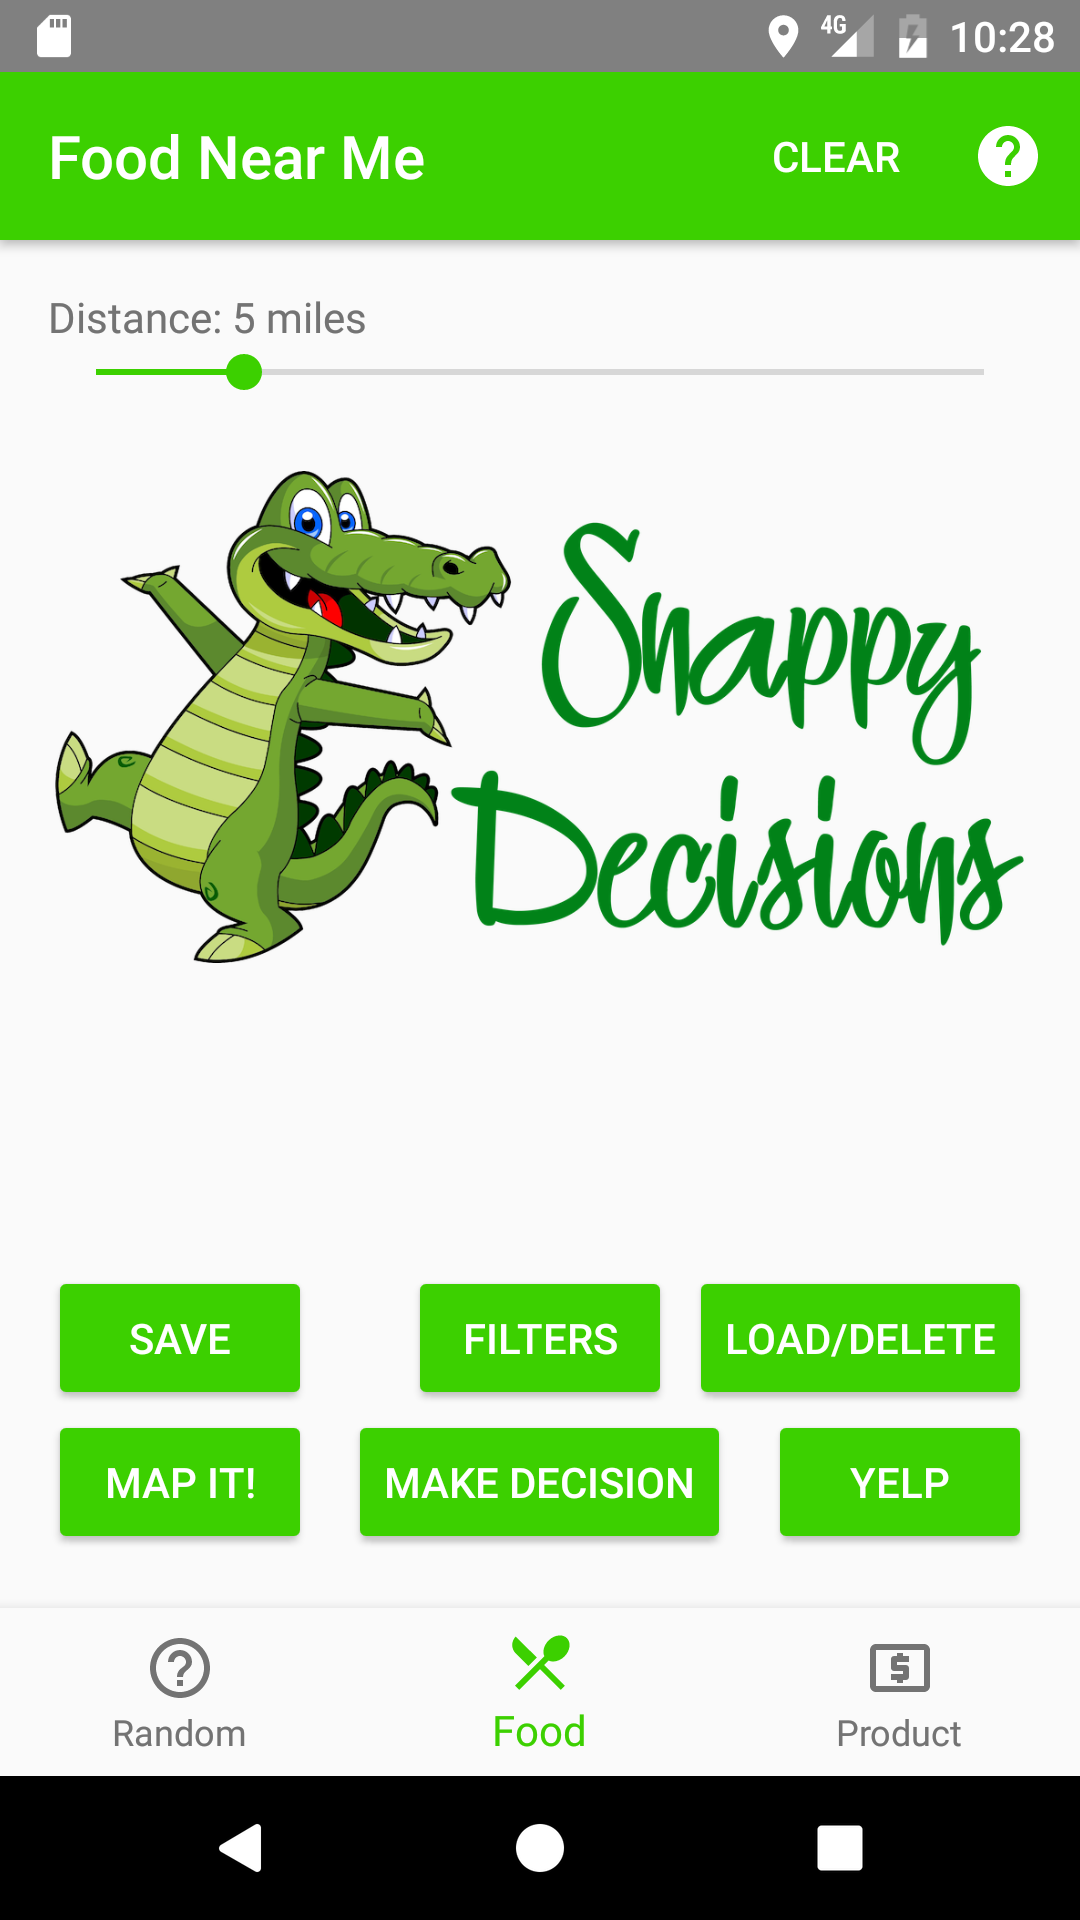
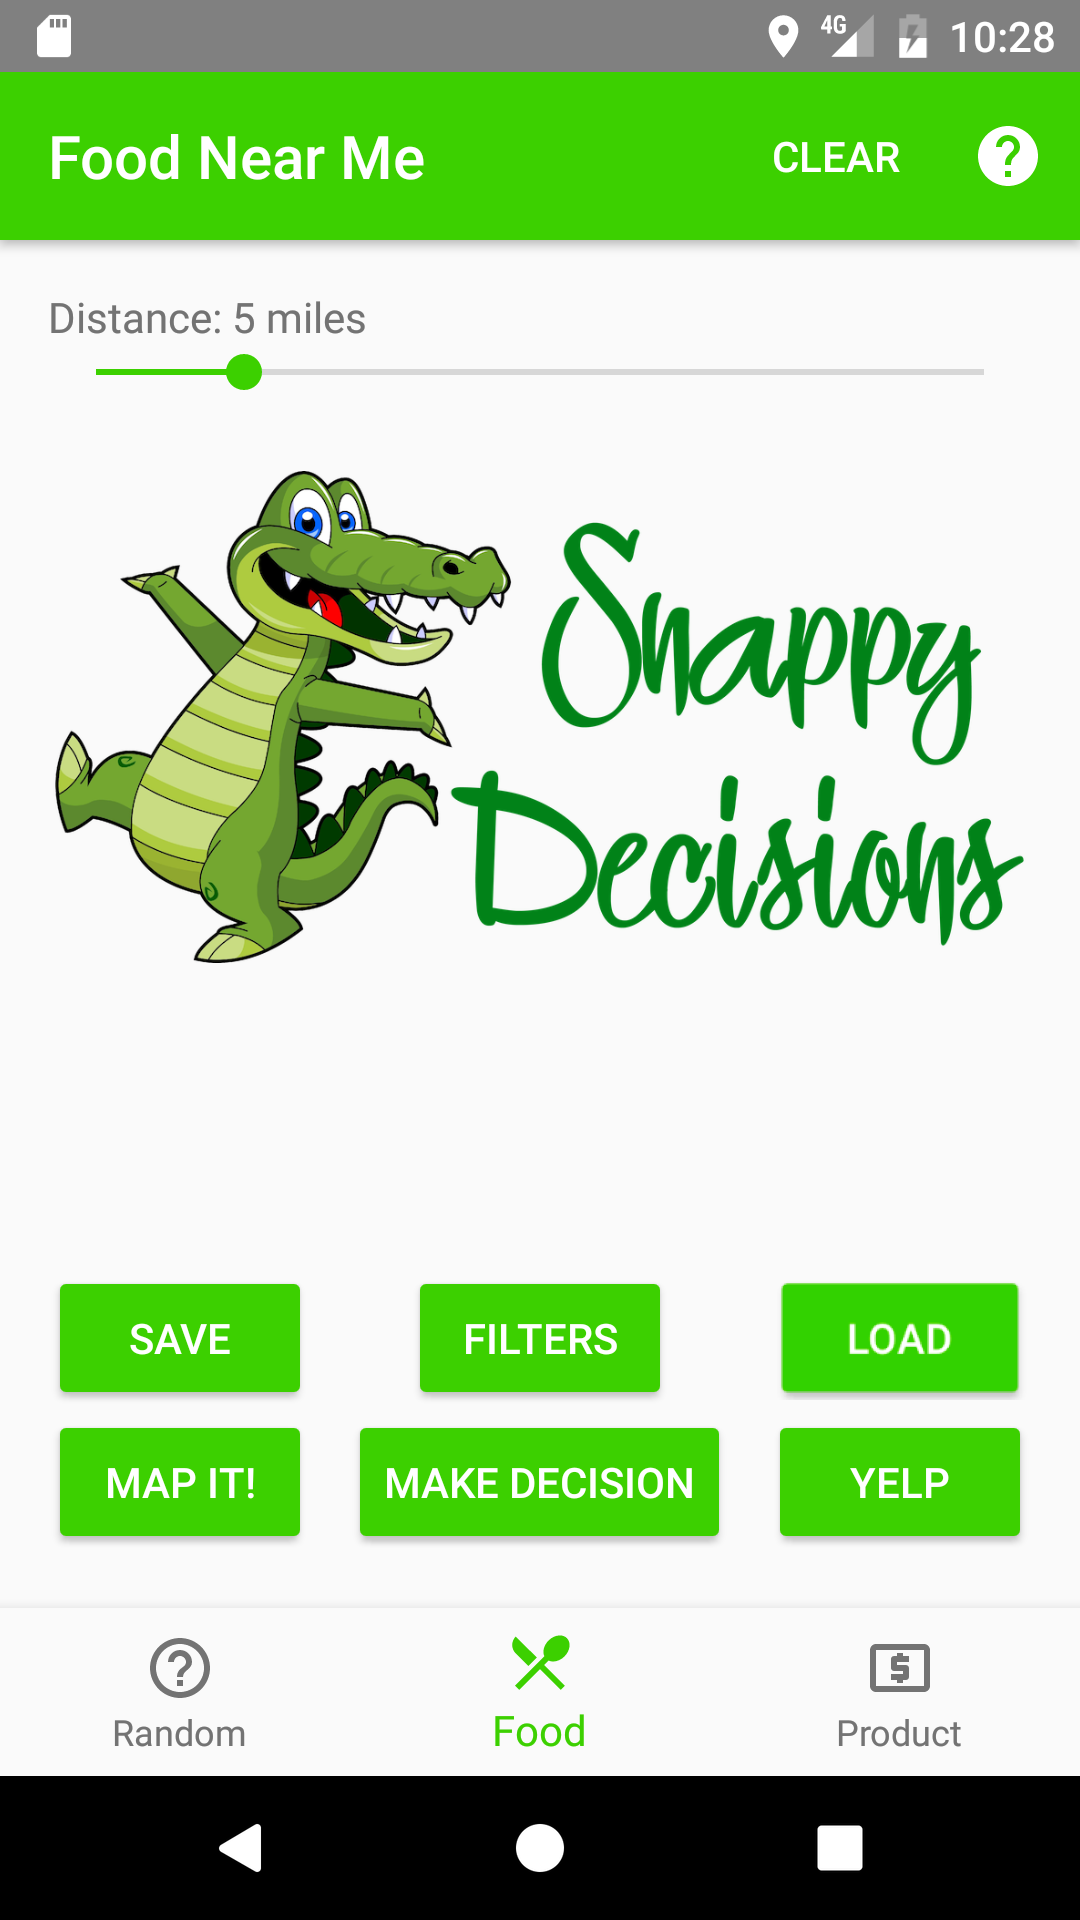
Fixed some text on website and screenshots for food decision

Changed region(s): [[0.6417, 0.6562, 0.9472, 0.75]]

diff --git a/website/index.html b/website/index.html
@@ -93,10 +93,10 @@
             </div>
             <div class="row">
                 <div class="col-lg-4 col-lg-offset-2">
-                    <p>What should I have for dinner? Should I go out tonight? Should I get married? Life is filled with difficult decisions that only cause stress and worry. With Snappy Decisions you can avoid taking any personal repsonsibilty and let your phone choose for you.</p>
+                    <p>What should I have for dinner? Should I go out tonight? Should I get married? Life is filled with difficult decisions that only cause stress and worry. With Snappy Decisions you can avoid taking any personal responsibility and let your phone choose for you.</p>
                 </div>
                 <div class="col-lg-4 col-lg-offset-0">
-                    <p>Snappy Decision can help with any type of decision. Use the random decider to pick from a set of options. Use the food decider to pick which restaraunt to go to. The product decider will help you make an informed decision by looking up relevant product info.</p>
+                    <p>Snappy Decisions can help with any type of decision. Use the random decider to pick from a set of user defined options. Use the food decider to pick which restaraunt to go to. The product decider will help you make an informed decision by looking up relevant product info.</p>
                 </div>
                 <div class="col-lg-8 col-lg-offset-2 text-center">
                     <a href="#" class="btn btn-lg btn-outline">
@@ -238,7 +238,7 @@
                                 </div>
                             </div>
                             
-                            <p>The end-all decision maker. Add your current options and we'll randomly pick one for you. Need more control? Add weighting to favor one option more than the others. Is there a decision you make frequently? Save it now and easily reload it again later.</p>
+                            <p>The end-all decision maker. Add potential choices and we'll randomly pick one for you. Need more control? Add weighting to favor one choice more than the others. Is there a set of choices you want to decide from frequently? Save it now and easily reload it again later.</p>
                             <button type="button" class="btn btn-default" data-dismiss="modal"><i class="fa fa-times"></i> Close</button>
                         </div>
                     </div>
@@ -273,7 +273,7 @@
                                 </div>
                             </div>
 
-                            <p>Can't decide where to eat? Our automatic search will find all nearby restaraunts and randomly pick one for your. Don't like our pick? Adjust the search radius for closer restaraunts or add filters to restrict food type. Want to go there? Easily open directions in maps or read reviews on Yelp. </p>
+                            <p>Can't decide where to eat? Our automatic search will find nearby restaraunts and randomly pick one for you. Don't like our pick? Adjust the search radius or add filters to restrict food type and pricing. Unsure about the restaurant? Open up the Yelp page to get more information. Want to go there? Easily open directions in maps and be on your way! </p>
                             <button type="button" class="btn btn-default" data-dismiss="modal"><i class="fa fa-times"></i> Close</button>
                         </div>
                     </div>
